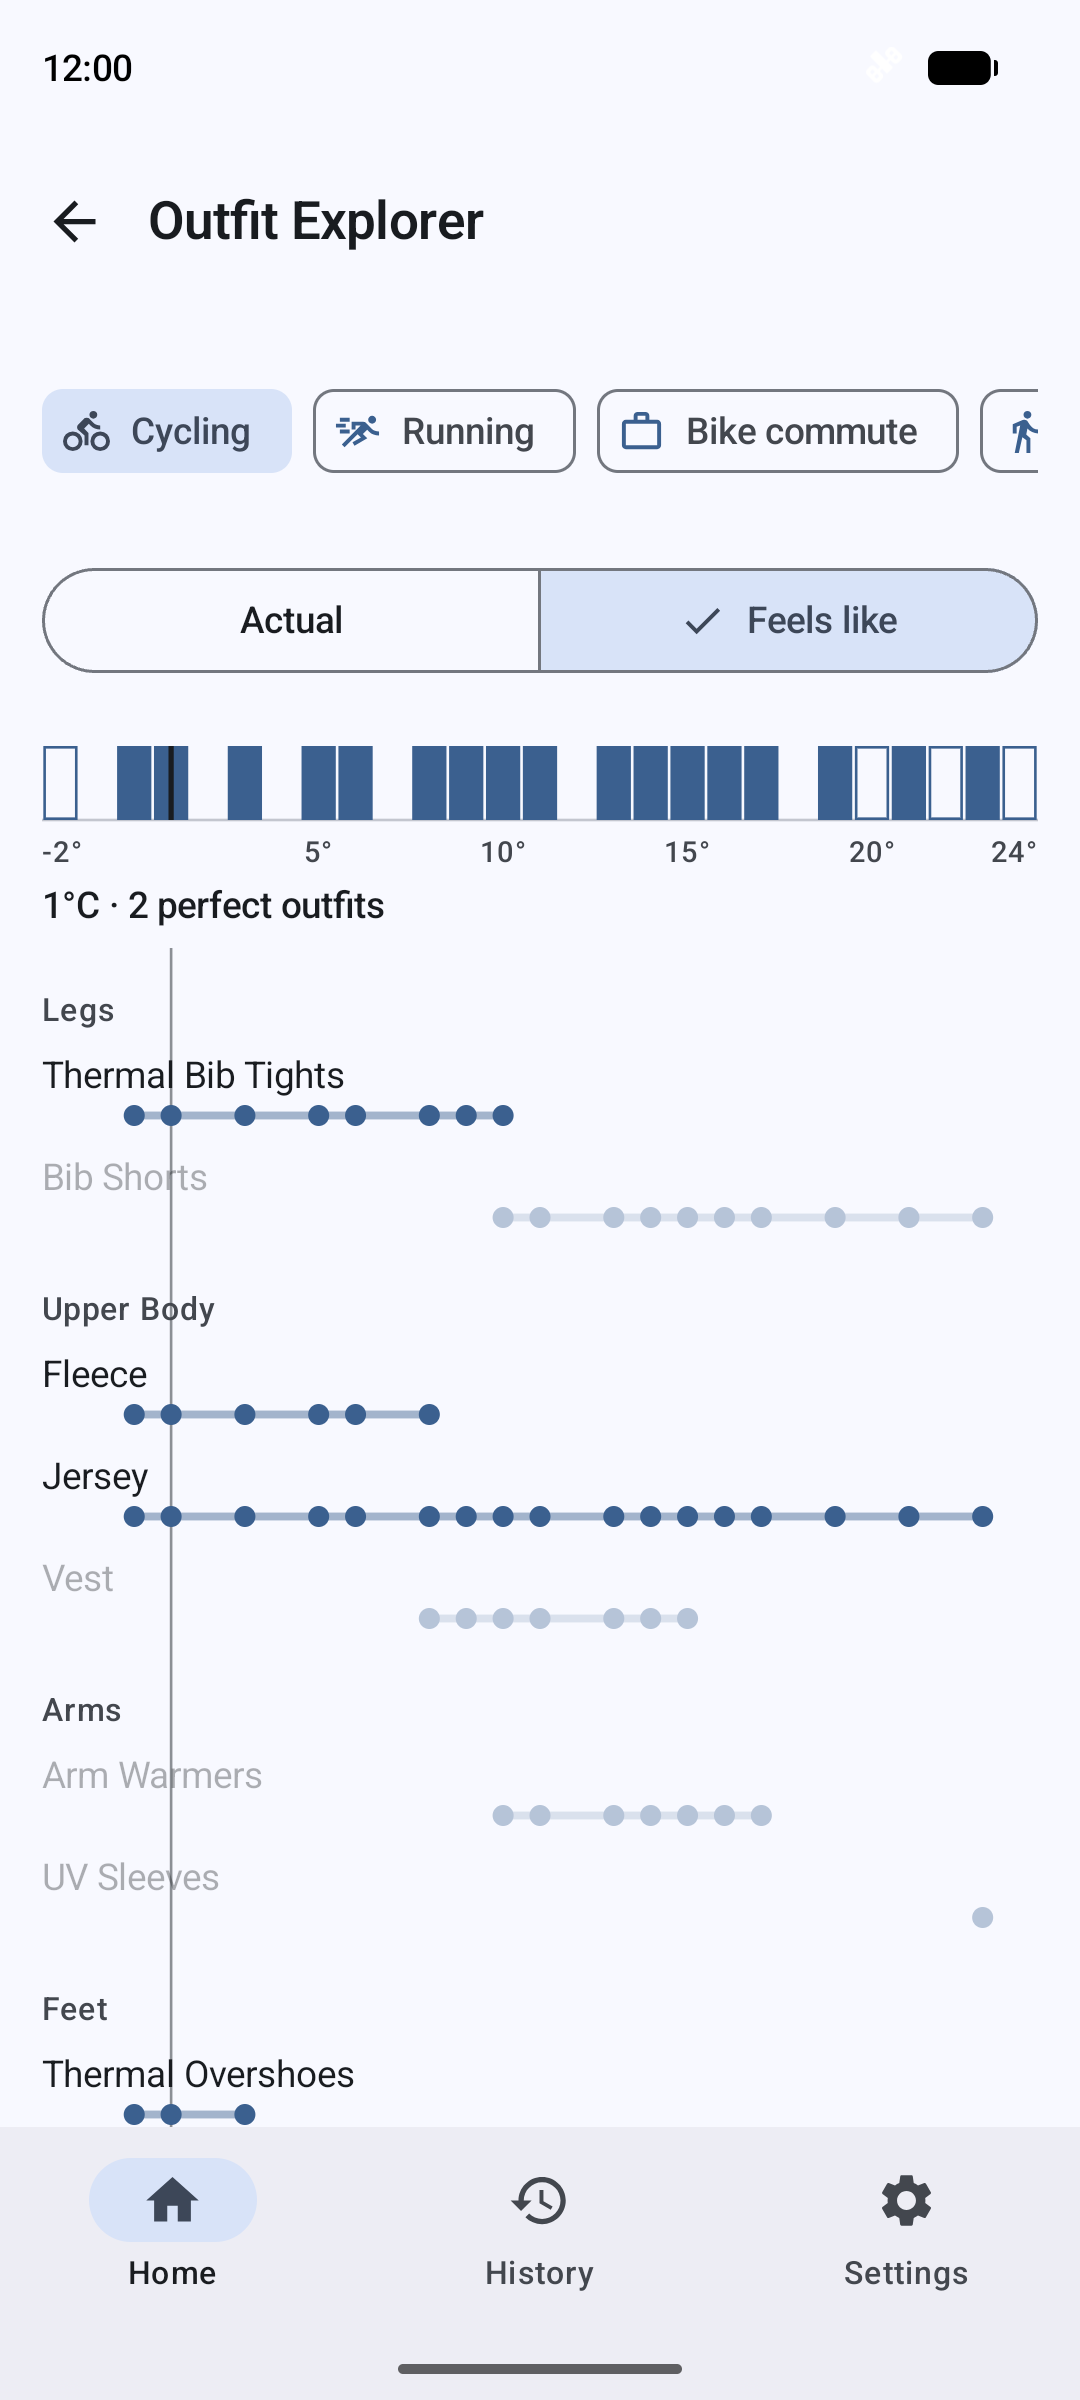
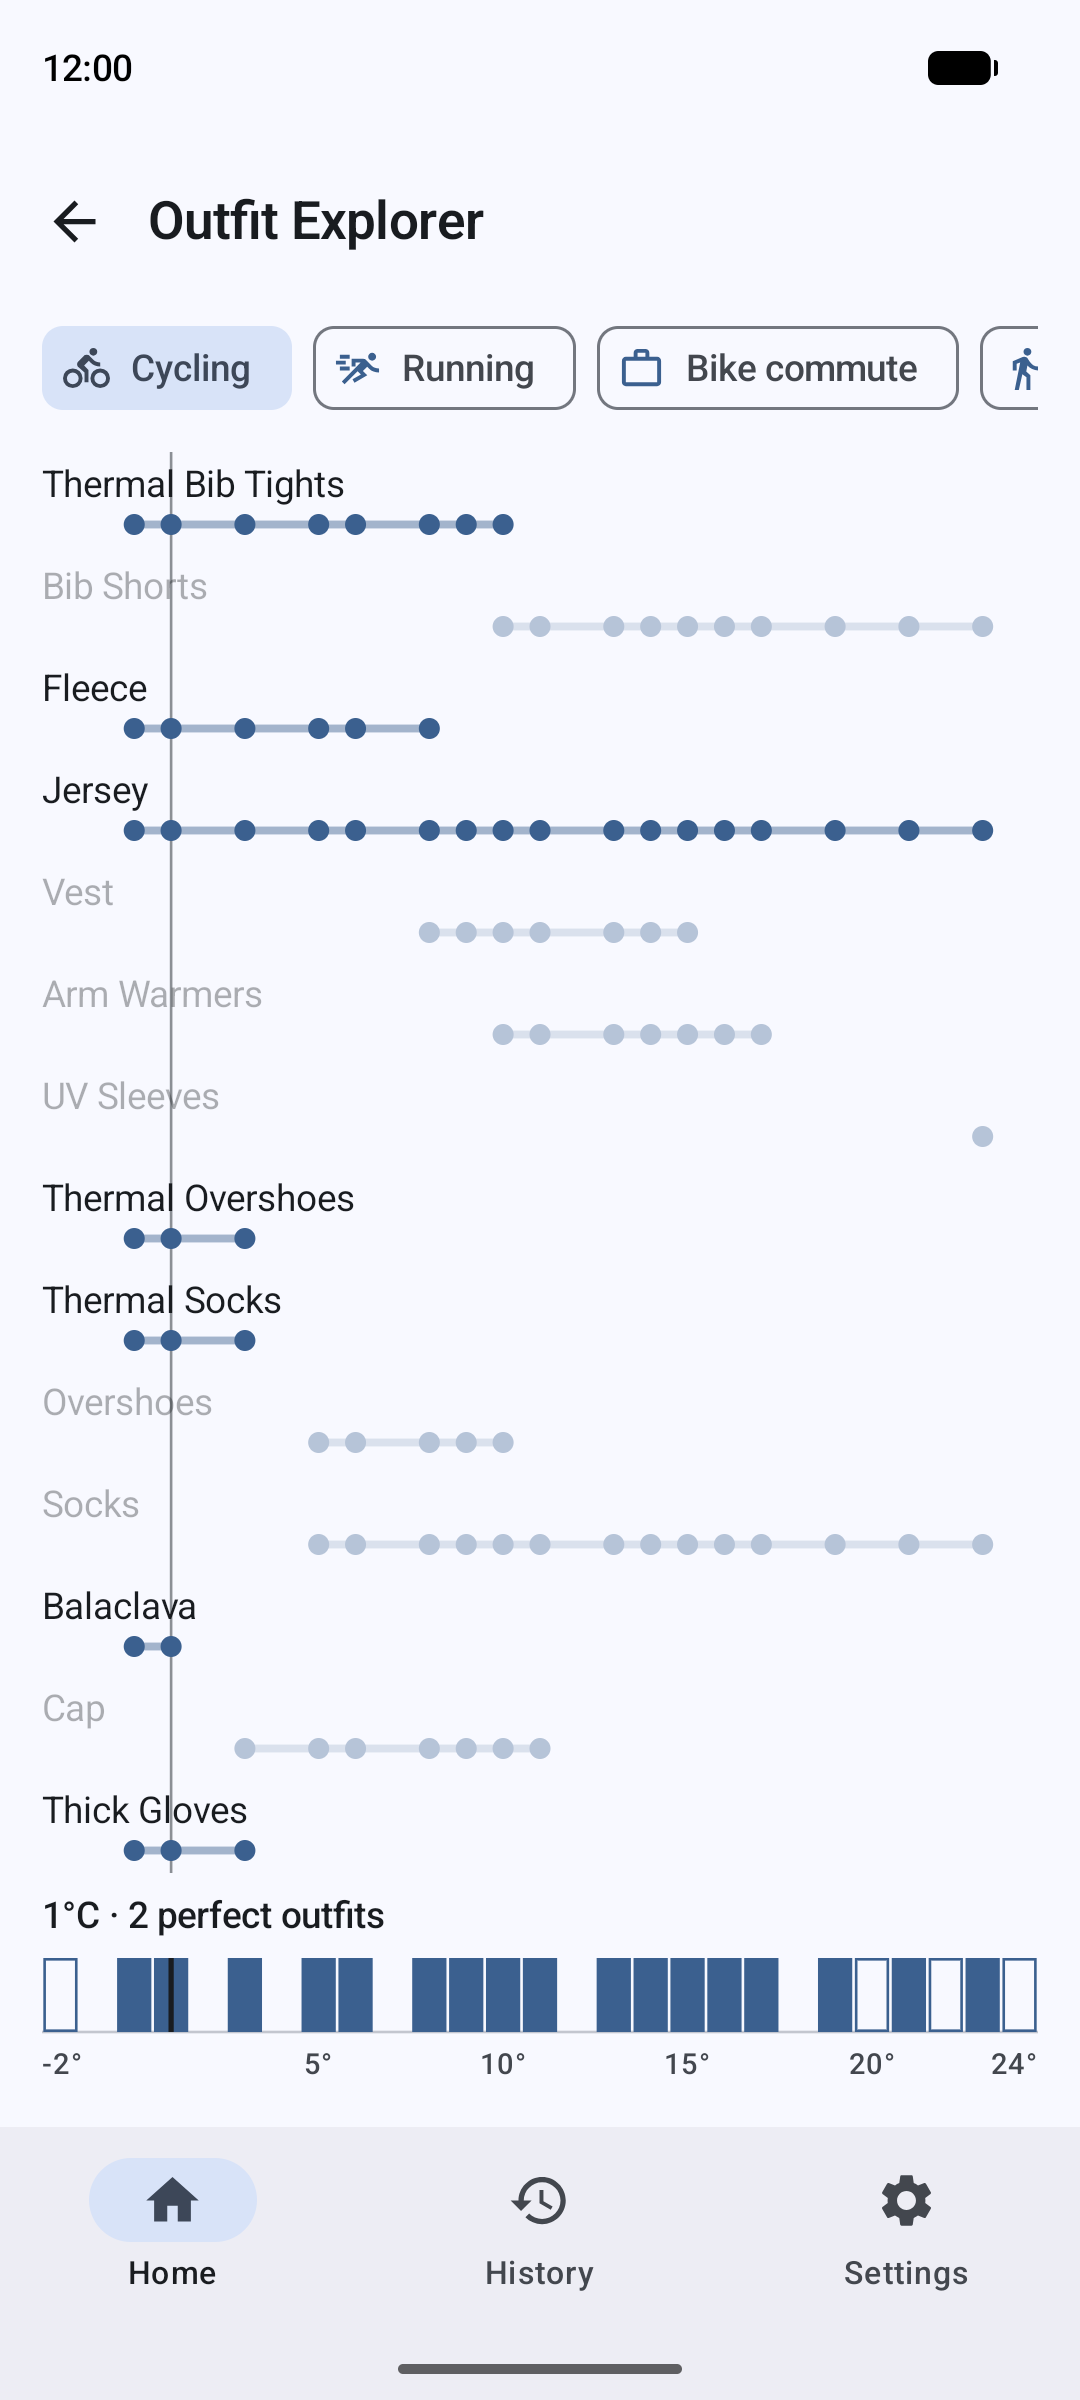
Explorer: open on Cycling, pin the strip below the rows as the x-axis
Explorer always opens on Cycling and has no feels-like/actual toggle any
more. It follows the preference set in Settings. To free vertical space,
the chips sit right under the app bar, the body-part headers and the
"Not yet in a perfect outfit" line are gone, and the coverage strip is
pinned under the scrolling rows with its labels below it.

diff --git a/app/src/main/java/com/example/perfectoutfit/feature/explorer/ExplorerScreen.kt b/app/src/main/java/com/example/perfectoutfit/feature/explorer/ExplorerScreen.kt
@@ -1,8 +1,6 @@
 package com.example.perfectoutfit.feature.explorer
 
-import androidx.compose.foundation.ExperimentalFoundationApi
-import androidx.compose.foundation.background
-import androidx.compose.foundation.layout.Arrangement
+import androidx.compose.foundation.layout.Box
 import androidx.compose.foundation.layout.Column
 import androidx.compose.foundation.layout.PaddingValues
 import androidx.compose.foundation.layout.WindowInsets
@@ -28,13 +26,12 @@ import androidx.compose.ui.unit.dp
 import androidx.hilt.navigation.compose.hiltViewModel
 import androidx.lifecycle.compose.collectAsStateWithLifecycle
 import com.example.perfectoutfit.ui.components.ActivityTypeSelector
-import com.example.perfectoutfit.ui.components.TemperatureModeToggle
 
 /**
- * Each tagged item's range of perfect temperatures, under a strip showing which degrees have a
- * perfect outfit at all (see "Temperature chart" in CONTEXT.md).
+ * Each tagged item's range of perfect temperatures, above a strip showing which degrees have a
+ * perfect outfit at all, which doubles as the x-axis (see "Temperature chart" in CONTEXT.md).
  */
-@OptIn(ExperimentalMaterial3Api::class, ExperimentalFoundationApi::class)
+@OptIn(ExperimentalMaterial3Api::class)
 @Composable
 fun ExplorerScreen(
     onNavigateBack: () -> Unit,
@@ -58,69 +55,51 @@ fun ExplorerScreen(
         },
         contentWindowInsets = WindowInsets(0)
     ) { innerPadding ->
-        LazyColumn(
+        Column(
             modifier = Modifier
                 .fillMaxSize()
-                .padding(innerPadding),
-            contentPadding = PaddingValues(horizontal = 16.dp, vertical = 24.dp)
+                .padding(innerPadding)
+                .padding(horizontal = 16.dp)
         ) {
-            item {
-                Column(verticalArrangement = Arrangement.spacedBy(24.dp)) {
-                    ActivityTypeSelector(
-                        selectedActivityType = uiState.activityType,
-                        onActivityTypeSelected = viewModel::selectActivityType
-                    )
-                    TemperatureModeToggle(
-                        useApparent = uiState.useApparent,
-                        onUseApparentSelected = viewModel::selectTemperatureMode
-                    )
-                }
-            }
+            ActivityTypeSelector(
+                selectedActivityType = uiState.activityType,
+                onActivityTypeSelected = viewModel::selectActivityType
+            )
 
             when {
-                uiState.isLoading || chart == null -> item {
-                    CircularProgressIndicator(modifier = Modifier.padding(top = 48.dp))
-                }
-                !chart.hasRatedHistory -> item {
-                    Text(
-                        text = "Rate some outfits for ${uiState.activityType.displayName} to unlock the explorer.",
-                        style = MaterialTheme.typography.bodyLarge,
-                        modifier = Modifier.padding(top = 24.dp)
-                    )
-                }
+                uiState.isLoading || chart == null -> CircularProgressIndicator(
+                    modifier = Modifier.padding(top = 48.dp)
+                )
+                !chart.hasRatedHistory -> Text(
+                    text = "Rate some outfits for ${uiState.activityType.displayName} to unlock the explorer.",
+                    style = MaterialTheme.typography.bodyLarge,
+                    modifier = Modifier.padding(top = 24.dp)
+                )
                 else -> {
-                    // The strip and axis stay put while the item rows scroll under them.
-                    stickyHeader {
-                        CoverageHeader(
-                            chart = chart,
-                            selectedTemp = selectedTemp,
-                            onSelect = viewModel::selectTemp,
-                            modifier = Modifier
-                                .fillMaxWidth()
-                                .background(MaterialTheme.colorScheme.surface)
-                                .padding(top = 24.dp)
-                        )
-                    }
-                    if (chart.groups.isEmpty()) {
-                        item {
+                    // Rows scroll; the x-axis stays put underneath them.
+                    Box(modifier = Modifier.weight(1f).fillMaxWidth()) {
+                        if (chart.groups.isEmpty()) {
                             Text(
                                 text = "No perfect outfits yet — rate one as perfect to see item ranges",
                                 style = MaterialTheme.typography.bodyLarge,
                                 modifier = Modifier.padding(top = 16.dp)
                             )
+                        } else {
+                            LazyColumn(contentPadding = PaddingValues(vertical = 8.dp)) {
+                                items(chart.groups.flatMap { it.rows }, key = { it.item.id }) { row ->
+                                    ItemRangeRow(row, chart, selectedTemp)
+                                }
+                            }
                         }
                     }
-                    chart.groups.forEach { group ->
-                        item(key = "header-${group.bodyPart}") {
-                            BodyPartHeader(group.bodyPart, chart, selectedTemp)
-                        }
-                        items(group.rows, key = { "item-${it.item.id}" }) { row ->
-                            ItemRangeRow(row, chart, selectedTemp)
-                        }
-                    }
-                    if (chart.notYetPerfect.isNotEmpty()) {
-                        item { NotYetPerfect(chart.notYetPerfect) }
-                    }
+                    CoverageAxis(
+                        chart = chart,
+                        selectedTemp = selectedTemp,
+                        onSelect = viewModel::selectTemp,
+                        modifier = Modifier
+                            .fillMaxWidth()
+                            .padding(top = 8.dp, bottom = 16.dp)
+                    )
                 }
             }
         }

diff --git a/app/src/main/java/com/example/perfectoutfit/feature/explorer/TemperatureRangeChart.kt b/app/src/main/java/com/example/perfectoutfit/feature/explorer/TemperatureRangeChart.kt
@@ -5,7 +5,6 @@ import androidx.compose.foundation.gestures.detectHorizontalDragGestures
 import androidx.compose.foundation.gestures.detectTapGestures
 import androidx.compose.foundation.layout.Box
 import androidx.compose.foundation.layout.Column
-import androidx.compose.foundation.layout.Spacer
 import androidx.compose.foundation.layout.fillMaxWidth
 import androidx.compose.foundation.layout.height
 import androidx.compose.foundation.layout.padding
@@ -28,14 +27,11 @@ import androidx.compose.ui.layout.Layout
 import androidx.compose.ui.semantics.ProgressBarRangeInfo
 import androidx.compose.ui.semantics.clearAndSetSemantics
 import androidx.compose.ui.semantics.contentDescription
-import androidx.compose.ui.semantics.heading
 import androidx.compose.ui.semantics.progressBarRangeInfo
 import androidx.compose.ui.semantics.semantics
 import androidx.compose.ui.semantics.setProgress
 import androidx.compose.ui.semantics.stateDescription
 import androidx.compose.ui.unit.dp
-import com.example.perfectoutfit.core.model.BodyPart
-import com.example.perfectoutfit.core.model.ClothingItem
 import com.example.perfectoutfit.feature.recommendation.DegreeCell
 import com.example.perfectoutfit.feature.recommendation.DegreeCoverage
 import com.example.perfectoutfit.feature.recommendation.ItemRange
@@ -70,13 +66,13 @@ internal fun rangeDescription(row: ItemRange): String =
         "${row.perfectTemps.size} temperatures"
 
 /**
- * The coverage strip, its axis labels and the selection caption, pinned above the rows.
+ * The selection caption, the coverage strip and its labels: the chart's x-axis, pinned below the rows.
  * Tapping or dragging selects a degree; tapping the selected one clears it ([onSelect]'s
  * second argument says whether the gesture may toggle). For TalkBack the strip is one
  * adjustable control that announces the caption.
  */
 @Composable
-internal fun CoverageHeader(
+internal fun CoverageAxis(
     chart: TemperatureChart,
     selectedTemp: Int?,
     onSelect: (temp: Int, toggle: Boolean) -> Unit,
@@ -90,6 +86,11 @@ internal fun CoverageHeader(
     val marker = MaterialTheme.colorScheme.onSurface
 
     Column(modifier) {
+        Text(
+            text = caption,
+            style = MaterialTheme.typography.labelLarge,
+            modifier = Modifier.padding(bottom = 8.dp)
+        )
         Canvas(
             modifier = Modifier
                 .fillMaxWidth()
@@ -141,11 +142,6 @@ internal fun CoverageHeader(
             if (selectedTemp != null) drawMarker(scale.xOf(selectedTemp, size.width), marker, 2.dp.toPx())
         }
         AxisLabels(scale, Modifier.fillMaxWidth().padding(top = 4.dp))
-        Text(
-            text = caption,
-            style = MaterialTheme.typography.labelLarge,
-            modifier = Modifier.padding(top = 4.dp, bottom = 8.dp)
-        )
     }
 }
 
@@ -184,20 +180,6 @@ private fun AxisLabels(scale: DegreeScale, modifier: Modifier) {
     }
 }
 
-@Composable
-internal fun BodyPartHeader(bodyPart: BodyPart, chart: TemperatureChart, selectedTemp: Int?) {
-    SelectionLine(chart, selectedTemp) {
-        Text(
-            text = bodyPart.displayName,
-            style = MaterialTheme.typography.labelMedium,
-            color = MaterialTheme.colorScheme.onSurfaceVariant,
-            modifier = Modifier
-                .padding(top = 16.dp, bottom = 4.dp)
-                .semantics { heading() }
-        )
-    }
-}
-
 /**
  * One item: its name above a thin bar from its coldest to its warmest perfect degree, with a
  * dot at each perfect degree. Fades when a degree is selected that the bar doesn't span.
@@ -226,19 +208,6 @@ internal fun ItemRangeRow(row: ItemRange, chart: TemperatureChart, selectedTemp:
                 row.perfectTemps.forEach { drawCircle(primary, 4.dp.toPx(), Offset(scale.xOf(it, size.width), y)) }
             }
         }
-    }
-}
-
-/** Items tagged for the activity type that no perfect outfit has included yet. */
-@Composable
-internal fun NotYetPerfect(items: List<ClothingItem>) {
-    Column {
-        Spacer(Modifier.height(16.dp))
-        Text(
-            text = "Not yet in a perfect outfit: " + items.joinToString(", ") { it.name },
-            style = MaterialTheme.typography.bodyMedium,
-            color = MaterialTheme.colorScheme.onSurfaceVariant
-        )
     }
 }
 

diff --git a/app/src/main/java/com/example/perfectoutfit/feature/explorer/ExplorerViewModel.kt b/app/src/main/java/com/example/perfectoutfit/feature/explorer/ExplorerViewModel.kt
@@ -16,8 +16,6 @@ import kotlinx.coroutines.flow.StateFlow
 import kotlinx.coroutines.flow.asStateFlow
 import kotlinx.coroutines.flow.combine
 import kotlinx.coroutines.flow.distinctUntilChanged
-import kotlinx.coroutines.flow.filterNotNull
-import kotlinx.coroutines.flow.first
 import kotlinx.coroutines.flow.flatMapLatest
 import kotlinx.coroutines.flow.map
 import kotlinx.coroutines.flow.update
@@ -48,19 +46,17 @@ class ExplorerViewModel @Inject constructor(
     private val _uiState = MutableStateFlow(ExplorerUiState(selectedTemp = forecastTemp))
     val uiState: StateFlow<ExplorerUiState> = _uiState.asStateFlow()
 
-    private val activityType = MutableStateFlow<ActivityType?>(null)
-    private val useApparent = MutableStateFlow<Boolean?>(null)
+    /** Explorer always opens on Cycling, whatever Home has selected. */
+    private val activityType = MutableStateFlow(ActivityType.CYCLING)
 
     init {
-        viewModelScope.launch { activityType.value = preferencesManager.selectedActivityType.first() }
-        // Observed, not read once: toggling the preference in Settings re-resolves the chart.
-        viewModelScope.launch { preferencesManager.useApparentTemperature.collect { useApparent.value = it } }
         viewModelScope.launch { observeChart() }
     }
 
     @OptIn(ExperimentalCoroutinesApi::class)
     private suspend fun observeChart() {
-        combine(activityType.filterNotNull(), useApparent.filterNotNull(), ::Pair)
+        // The basis is Settings' alone; observed, so changing it there re-resolves the chart.
+        combine(activityType, preferencesManager.useApparentTemperature, ::Pair)
             .distinctUntilChanged()
             .flatMapLatest { (type, apparent) ->
                 _uiState.update { it.copy(isLoading = true, activityType = type, useApparent = apparent) }
@@ -84,11 +80,6 @@ class ExplorerViewModel @Inject constructor(
         // A different activity type starts again from Home's forecast temperature.
         _uiState.update { it.copy(selectedTemp = forecastTemp, chart = null) }
         activityType.value = type
-    }
-
-    /** Switching basis keeps the selected degree where the new axis still reaches it. */
-    fun selectTemperatureMode(apparent: Boolean) {
-        useApparent.value = apparent
     }
 
     /** Marks [temp] on the chart (clamped to its axis); selecting the marked degree again clears it. */

diff --git a/app/src/main/java/com/example/perfectoutfit/feature/recommendation/TemperatureChart.kt b/app/src/main/java/com/example/perfectoutfit/feature/recommendation/TemperatureChart.kt
@@ -36,8 +36,7 @@ data class BodyPartRanges(val bodyPart: BodyPart, val rows: List<ItemRange>)
  */
 data class TemperatureChart(
     val degrees: List<DegreeCell>,
-    val groups: List<BodyPartRanges>,
-    val notYetPerfect: List<ClothingItem>
+    val groups: List<BodyPartRanges>
 ) {
     val minTemp: Int? get() = degrees.firstOrNull()?.temp
     val maxTemp: Int? get() = degrees.lastOrNull()?.temp
@@ -49,8 +48,8 @@ internal object TemperatureChartPolicy {
 
     /**
      * [entries] are the activity type's entries (unrated ones are ignored); [taggedItems] are the
-     * items currently tagged for it. Only tagged items get rows or appear in [TemperatureChart.notYetPerfect];
-     * the strip counts every perfect outfit, whatever its items.
+     * items currently tagged for it. Only tagged items get rows; the strip counts every perfect
+     * outfit, whatever its items.
      */
     fun build(
         entries: List<OutfitEntryWithDetails>,
@@ -90,11 +89,7 @@ internal object TemperatureChartPolicy {
                 .takeIf { it.isNotEmpty() }
                 ?.let { BodyPartRanges(part, it) }
         }
-        val notYetPerfect = tagged
-            .filter { it.id !in perfectTempsById }
-            .sortedWith(compareBy({ BODY_PART_DISPLAY_ORDER.indexOf(it.bodyPart) }, { it.name }))
-
-        return TemperatureChart(degrees, groups, notYetPerfect)
+        return TemperatureChart(degrees, groups)
     }
 
     private fun OutfitEntryWithDetails.roundedTemp(useApparent: Boolean): Int =

diff --git a/app/src/test/java/com/example/perfectoutfit/feature/recommendation/TemperatureChartTest.kt b/app/src/test/java/com/example/perfectoutfit/feature/recommendation/TemperatureChartTest.kt
@@ -89,7 +89,6 @@ class TemperatureChartTest {
         assertFalse(chart.hasRatedHistory)
         assertEquals(null, chart.minTemp)
         assertTrue(chart.groups.isEmpty())
-        assertEquals(listOf(tights, jacket, jersey, vest, gloves), chart.notYetPerfect)
     }
 
     // ── item rows ─────────────────────────────────────────────────────────────
@@ -109,13 +108,12 @@ class TemperatureChartTest {
     }
 
     @Test
-    fun `untagged items get no row and tagged items without perfect entries are listed`() {
+    fun `only tagged items with a perfect entry get a row`() {
         val chart = build(
             listOf(entry(1, rating = 0, apparent = 5.0, jacket, gloves)),
             tagged = listOf(jacket, tights)
         )
         assertEquals(listOf(jacket), chart.groups.flatMap { g -> g.rows.map { it.item } })
-        assertEquals(listOf(tights), chart.notYetPerfect)
     }
 
     @Test

diff --git a/CONTEXT.md b/CONTEXT.md
@@ -128,9 +128,12 @@ the pure, `internal` `TemperatureChartPolicy` doing the work. Degrees are rounde
   may overlap at a degree no single outfit was perfect at.
 - **Item rows:** one per item *currently tagged* for the activity type that is in at least one
   perfect entry: a bar from its coldest to its warmest perfect degree with a dot at each.
-  Grouped by `BODY_PART_DISPLAY_ORDER`, coldest minimum first (then lower maximum, then name).
-  Untagged items get no row even with perfect history; tagged items with none are listed as
-  "Not yet in a perfect outfit".
+  Ordered by `BODY_PART_DISPLAY_ORDER` (no body-part labels on screen), coldest minimum first
+  within a body part (then lower maximum, then name). Untagged items get no row even with
+  perfect history; tagged items without one aren't shown.
+- **Screen:** Explorer always opens on Cycling and has no basis toggle — the basis is Settings'
+  [preference](#apparent-vs-real-temperature). The strip sits pinned under the scrolling rows,
+  with its labels below it, as the chart's x-axis.
 - **Selection:** tapping or dragging the strip marks a degree; rows not spanning it fade, and a
   caption gives its perfect-outfit count. It starts at Home's forecast temperature when that is
   on the axis, survives a basis switch while the new axis reaches it, and resets on an activity
